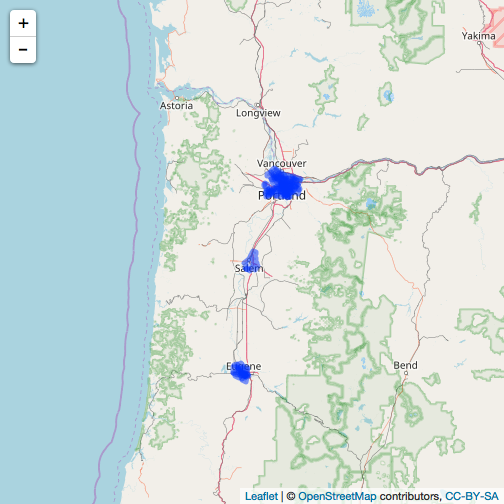
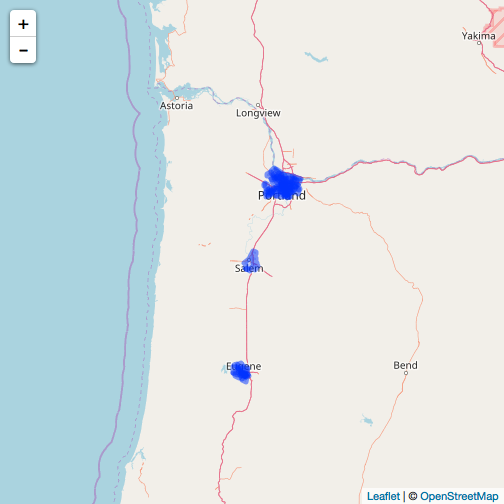
update readme

diff --git a/README.md b/README.md
@@ -42,7 +42,6 @@ Package API:
 #>  - geo_midpoint
 #>  - geo_bbox_polygon
 #>  - geo_pointgrid
-#>  - geo_bbox
 #>  - geo_area
 #>  - geo_get_coords
 #>  - version
@@ -82,7 +81,7 @@ library("geoops")
 
 ```r
 geoops::version()
-#> [1] "{\"compiler\":{\"c++\":\"201103\",\"family\":\"clang\",\"version\":\"9.0.0 (clang-900.0.37)\"},\"copyright\":\"(C) 2013-2017 Niels Lohmann\",\"name\":\"JSON for Modern C++\",\"platform\":\"apple\",\"url\":\"https://github.com/nlohmann/json\",\"version\":{\"major\":2,\"minor\":1,\"patch\":1,\"string\":\"2.1.1\"}}"
+#> [1] "{\"compiler\":{\"c++\":\"201103\",\"family\":\"clang\",\"version\":\"9.0.0 (clang-900.0.39.2)\"},\"copyright\":\"(C) 2013-2017 Niels Lohmann\",\"name\":\"JSON for Modern C++\",\"platform\":\"apple\",\"url\":\"https://github.com/nlohmann/json\",\"version\":{\"major\":3,\"minor\":0,\"patch\":0,\"string\":\"3.0.0\"}}"
 ```
 
 ## distance
@@ -214,6 +213,8 @@ geo_nearest(point1, points)
 
 ## comparison to rgeos
 
+### distance
+
 
 ```r
 library(rgeos)
@@ -226,12 +227,35 @@ rgeospt2 <- rgeos::readWKT("POINT(2 2)")
 microbenchmark::microbenchmark(
   rgeos = rgeos::gDistance(rgeospt1, rgeospt2),
   geoops = geoops::geo_distance(pt1, pt2, units = "miles"),
-  times = 1000L
+  times = 10000L
 )
 #> Unit: microseconds
-#>    expr    min      lq     mean  median     uq       max neval
-#>   rgeos 38.531 45.0870 80.47333 49.1035 54.786 23196.568  1000
-#>  geoops 33.425 37.8765 43.77398 39.5580 42.680   483.714  1000
+#>    expr    min      lq     mean  median      uq       max neval
+#>   rgeos 25.309 28.7050 44.00719 30.5135 34.0175 41640.998 10000
+#>  geoops 26.614 29.2905 36.67071 30.6755 34.3395  1798.585 10000
+```
+
+### nearest
+
+
+```r
+point1 <- '{"type":["Feature"],"properties":{"marker-color":["#0f0"]},"geometry":{"type":["Point"],"coordinates":[28.9658,41.0101]}}'
+point2 <- '{"type":["FeatureCollection"],"features":[{"type":"Feature","properties":{},"geometry":{"type":"Point","coordinates":[28.9739,41.0111]}},{"type":"Feature","properties":{},"geometry":{"type":"Point","coordinates":[28.9485,41.0242]}},{"type":"Feature","properties":{},"geometry":{"type":"Point","coordinates":[28.9387,41.0133]}}]}'
+g1 <- readWKT("MULTILINESTRING((34 54, 60 34), (0 10, 50 10, 100 50))")
+g2 <- readWKT("POINT(100 30)")
+```
+
+
+```r
+microbenchmark::microbenchmark(
+  rgeos = rgeos::gNearestPoints(g1, g2),
+  geoops = geoops::geo_nearest(point1, points),
+  times = 10000L
+)
+#> Unit: microseconds
+#>    expr     min       lq     mean   median       uq       max neval
+#>   rgeos 371.256 395.4455 488.6030 420.7625 498.8065 13011.500 10000
+#>  geoops 100.243 110.7230 135.4224 125.2550 138.5870  1440.605 10000
 ```
 
 ## Example use case
@@ -268,7 +292,7 @@ Visualize area of the polygons as a histogram
 hist(areas, main = "")
 ```
 
-![plot of chunk unnamed-chunk-18](tools/img/unnamed-chunk-18-1.png)
+![plot of chunk unnamed-chunk-20](tools/img/unnamed-chunk-20-1.png)
 
 Visualize some of the polygons, all of them
 
@@ -276,24 +300,24 @@ Visualize some of the polygons, all of them
 ```r
 library(leaflet)
 leaflet() %>%
-  addTiles() %>%
+  addProviderTiles(provider = "OpenStreetMap.Mapnik") %>%
   addGeoJSON(geojson = x) %>%
   setView(lng = -123, lat = 45, zoom = 7)
 ```
 
-![plot of chunk unnamed-chunk-19](tools/img/unnamed-chunk-19-1.png)
+![plot of chunk unnamed-chunk-21](tools/img/unnamed-chunk-21-1.png)
 
 Just one of them
 
 
 ```r
 leaflet() %>%
-  addTiles() %>%
+  addProviderTiles(provider = "OpenStreetMap.Mapnik") %>%
   addGeoJSON(geojson = polys[1]) %>%
   setView(lng = -122.7, lat = 45.48, zoom = 13)
 ```
 
-![plot of chunk unnamed-chunk-20](tools/img/unnamed-chunk-20-1.png)
+![plot of chunk unnamed-chunk-22](tools/img/unnamed-chunk-22-1.png)
 </details>
 
 
